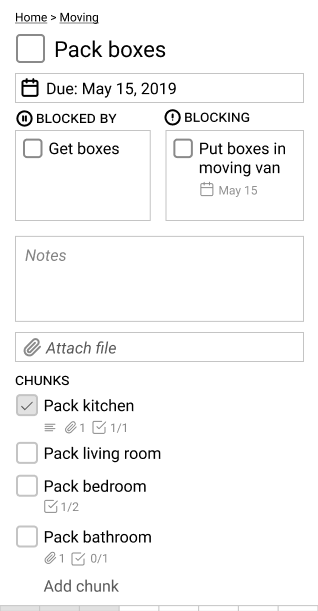
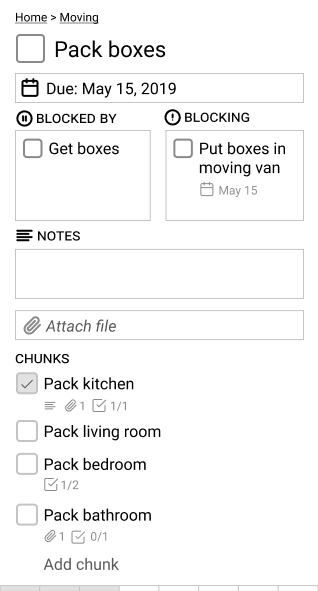
Change Notes layout in mockup. Add Notes, Chunks, and file attachments to JSX.

diff --git a/client/bundles/Chunky/components/Chunky.jsx b/client/bundles/Chunky/components/Chunky.jsx
@@ -16,7 +16,13 @@ export default class Chunky extends React.Component {
 
     // How to set initial state in ES6 class syntax
     // https://reactjs.org/docs/state-and-lifecycle.html#adding-local-state-to-a-class
-    this.state = { name: this.props.name, task: this.props.task };
+    this.state = { 
+      name: this.props.name,
+      task: this.props.task,
+      notes: ""
+    };
+    
+    this.handleNotesChange = this.handleNotesChange.bind(this);
   }
 
   updateName = (name) => {
@@ -40,11 +46,15 @@ export default class Chunky extends React.Component {
     this.state.task.completed = true;
     this.sendTask();
   }
+  
+  handleNotesChange = (event) => {
+    this.setState({ notes: event.target.value });
+  }
 
   render() {
     console.log(this.state.task);
-    const checkbox = this.state.task.completed ? <input type="checkbox" checked /> : <input type="checkbox" />;
-    const FrontSideTask = props => (<div>{ checkbox } { props.name }</div>);
+    const checkbox = this.state.task.completed ? <input type="checkbox" defaultChecked /> : <input type="checkbox" />;
+    const FrontSideTask = props => (<label>{ checkbox } { props.name }</label>);
     return (
       <div>
         <h1>
@@ -52,10 +62,12 @@ export default class Chunky extends React.Component {
             { checkbox } { this.state.task.name }
           </label>
         </h1>
+        
         <div className="field">
           <Icon.Calendar size="16" />
           { this.state.task.due_date ? " Due: " + this.state.task.due_date : <em> Add due date</em> }
         </div>
+        
         <div className="row">
           <div>
             <div className="smallcaps"><Icon.PauseCircle size="16" /> blocked by</div>
@@ -70,7 +82,21 @@ export default class Chunky extends React.Component {
             </div>
           </div>
         </div>
-
+        
+        <Icon.AlignLeft size="16" />
+        <span className="smallcaps">notes</span>
+        <div className="field">
+          <textarea value={this.state.notes} onChange={this.handleNotesChange} />
+        </div>
+        
+        <div className="field">
+          <Icon.Paperclip size="16" />
+          <i className="deemphasize">Attach file</i>
+        </div>
+        
+        <div className="smallcaps">chunks</div>
+        <FrontSideTask name="Pack kitchen" />
+        Add chunk
 
         <hr />
         <form >
